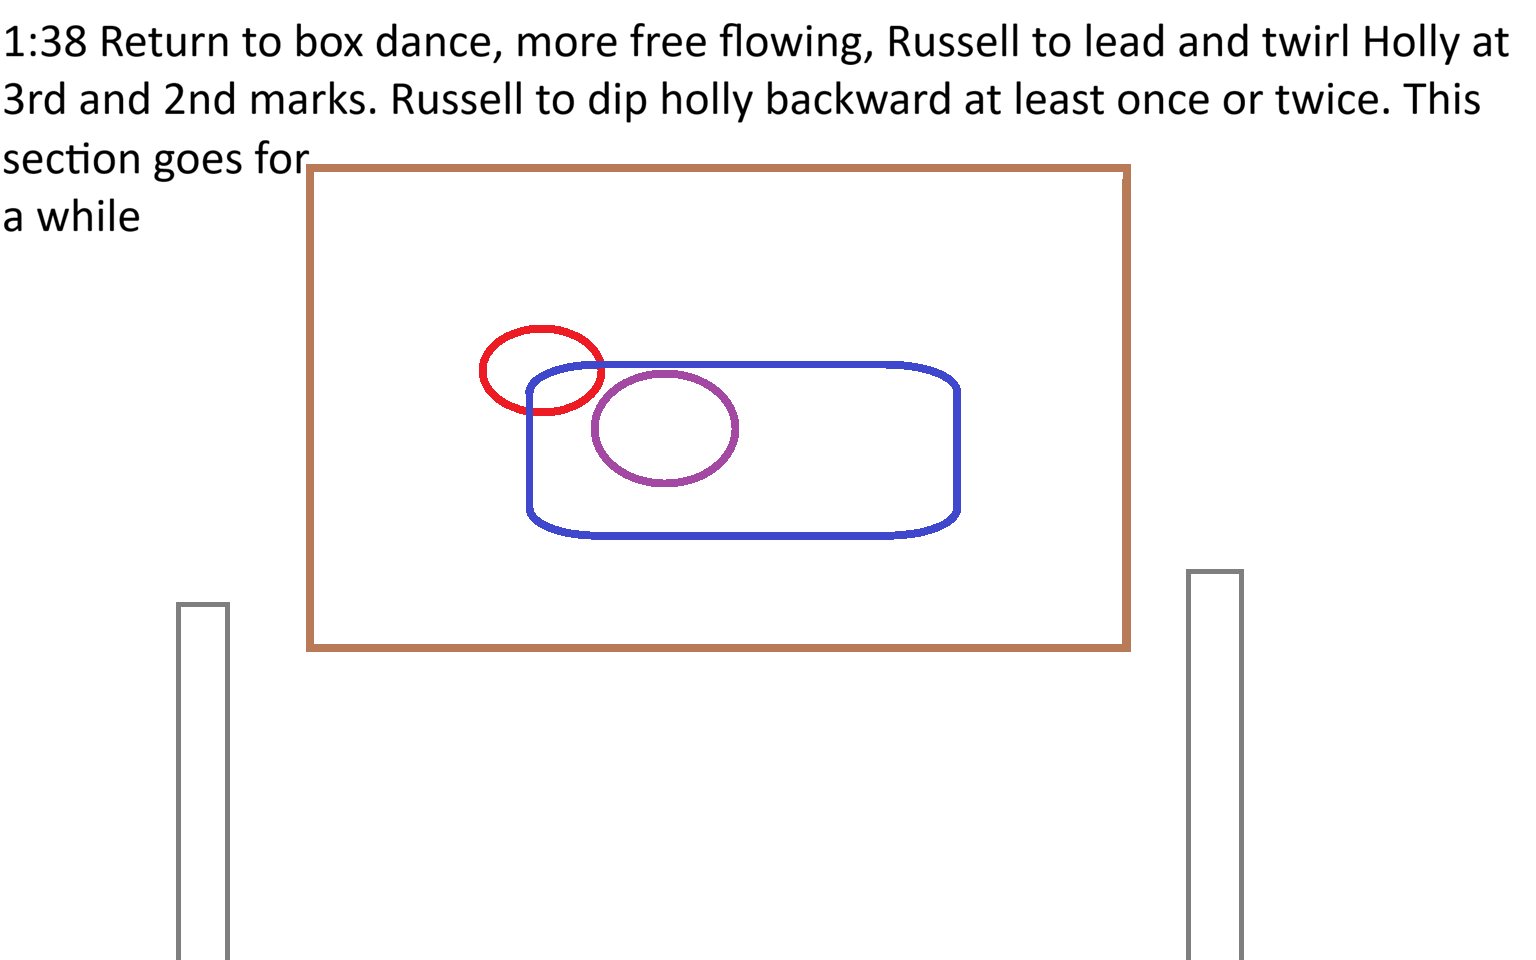
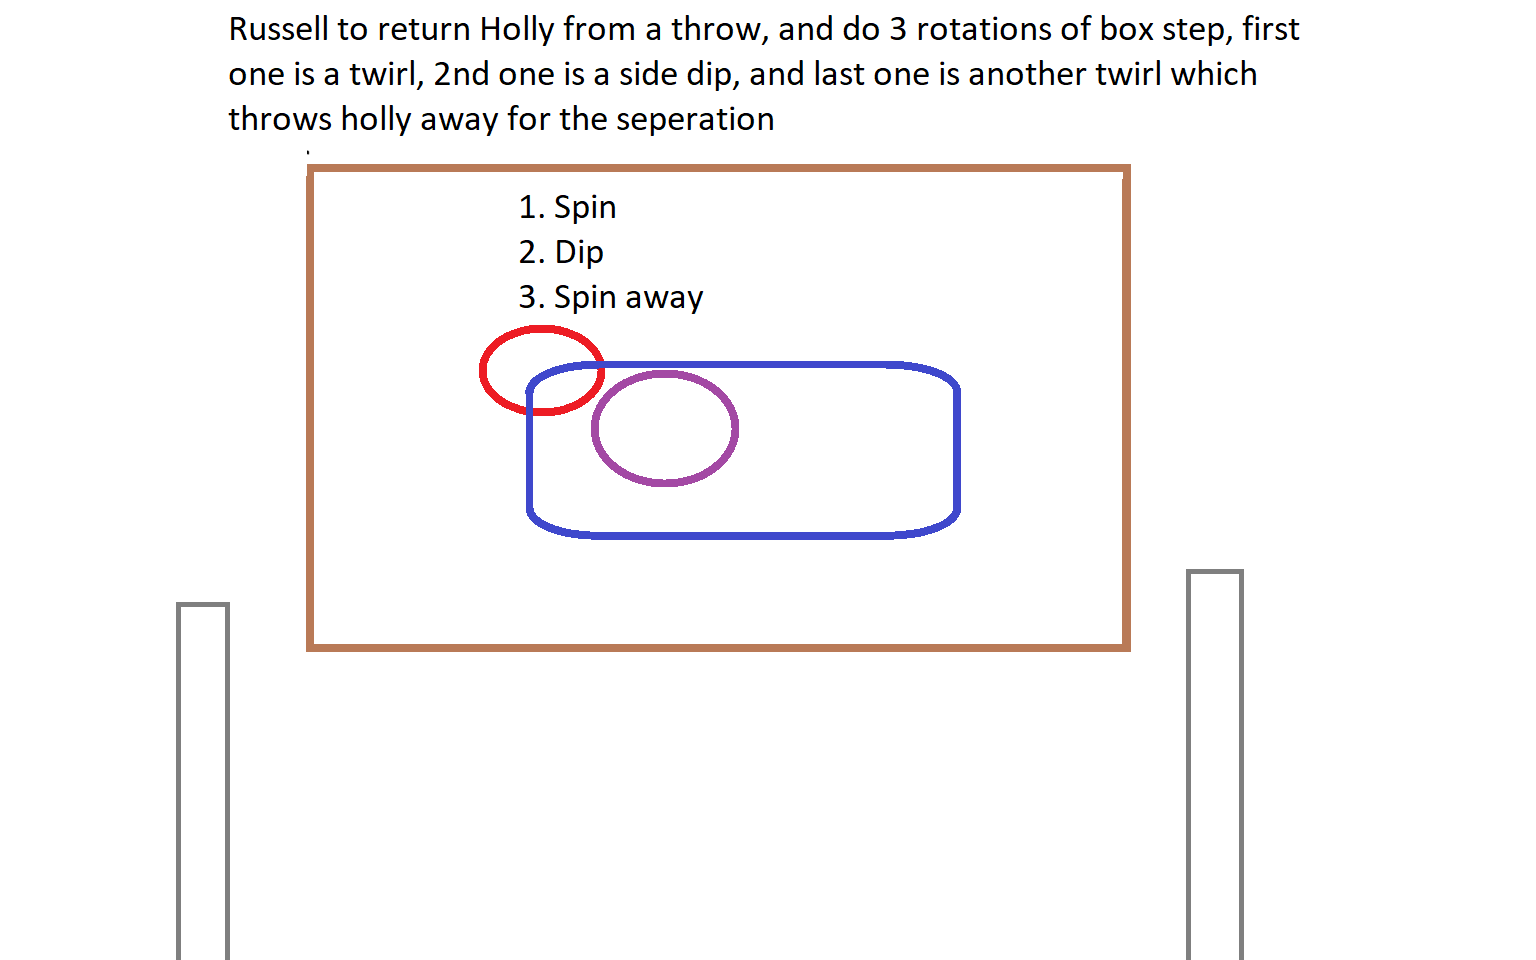
Update dance steps 5, 9, 10 with new choreography from updated images

Changed region(s): [[0.0, 0.0, 1.0, 0.1875], [0.3438, 0.1875, 0.4688, 0.3438], [0.0, 0.2188, 0.0938, 0.25]]

diff --git a/dance.html b/dance.html
@@ -441,14 +441,15 @@
                 <div class="step-header">
                     <span class="step-number">9</span>
                     <span class="step-timestamp">1:33</span>
-                    <span class="step-title">Tight Embrace – Still Shuffling</span>
+                    <span class="step-title">Tight Embrace – Then Throw Holly Away</span>
                 </div>
                 <div class="step-body">
                     <div class="step-image">
-                        <img src="Wedding dancing images/9.png" alt="Step 9 – Tight embrace">
+                        <img src="Wedding dancing images/9.png" alt="Step 9 – Tight embrace then throw">
                     </div>
                     <div class="step-instructions">
                         <p>At 1:33, <span class="who-tag russell">Russell</span> pulls <span class="who-tag holly">Holly</span> into a <strong>tight embrace</strong> whilst still shuffling.</p>
+                        <p style="margin-top:10px;">Right before the next sequence, <span class="who-tag russell">Russell</span> <strong>"throws" Holly away</strong> to transition into the separation.</p>
                         <span class="cue">🎵 Cue: 1:33</span>
                     </div>
                 </div>
@@ -459,16 +460,19 @@
                 <div class="step-header">
                     <span class="step-number">10</span>
                     <span class="step-timestamp">1:38 – 2:00</span>
-                    <span class="step-title">Free-Flowing Box Dance – Twirls & Dips</span>
+                    <span class="step-title">Return from Throw – 3 Rotations of Box Step</span>
                 </div>
                 <div class="step-body">
                     <div class="step-image">
-                        <img src="Wedding dancing images/10.png" alt="Step 10 – Free flowing box dance">
+                        <img src="Wedding dancing images/10.png" alt="Step 10 – 3 rotations box step">
                     </div>
                     <div class="step-instructions">
-                        <p>At 1:38, return to <strong>box dance</strong>, more free flowing.</p>
-                        <p style="margin-top:12px;"><span class="who-tag russell">Russell</span> leads and twirls <span class="who-tag holly">Holly</span> at the 3rd and 2nd marks.</p>
-                        <p style="margin-top:12px;"><span class="who-tag russell">Russell</span> to dip Holly backward <strong>at least once or twice</strong>.</p>
+                        <p><span class="who-tag russell">Russell</span> returns <span class="who-tag holly">Holly</span> from the throw, then <strong>3 rotations of box step:</strong></p>
+                        <ol style="margin-top:10px; padding-left:20px;">
+                            <li><strong>Spin</strong> – twirl Holly</li>
+                            <li><strong>Dip</strong> – side dip</li>
+                            <li><strong>Spin away</strong> – final twirl that throws Holly away for the separation into the next section</li>
+                        </ol>
                         <p style="margin-top:12px; font-style:italic; color:var(--text-light);">This section goes for a while.</p>
                         <span class="cue">🎵 Cue: 1:38</span>
                     </div>
